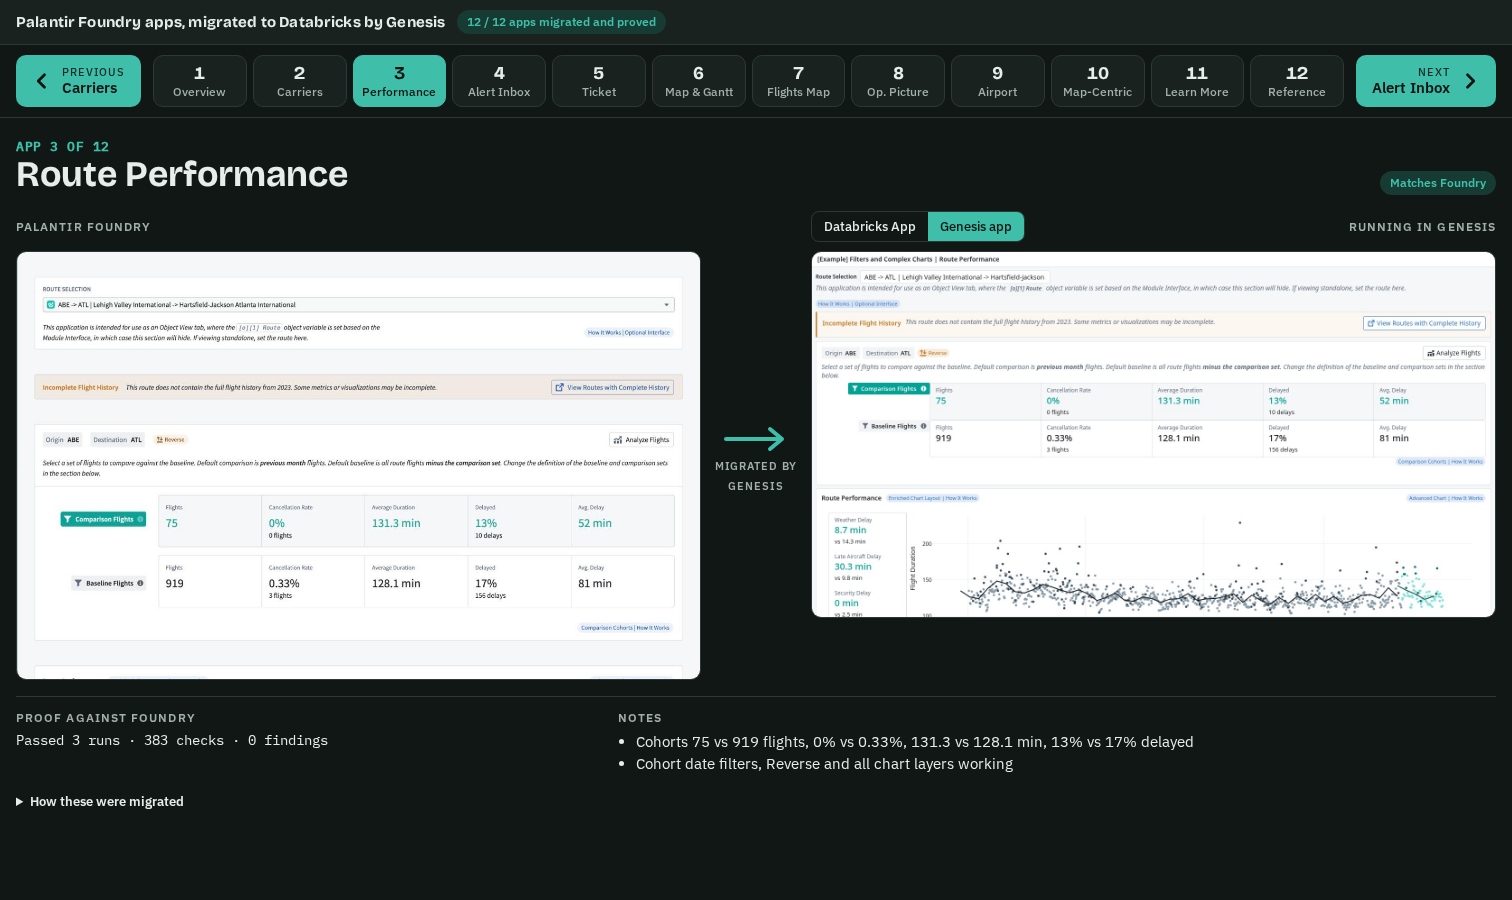
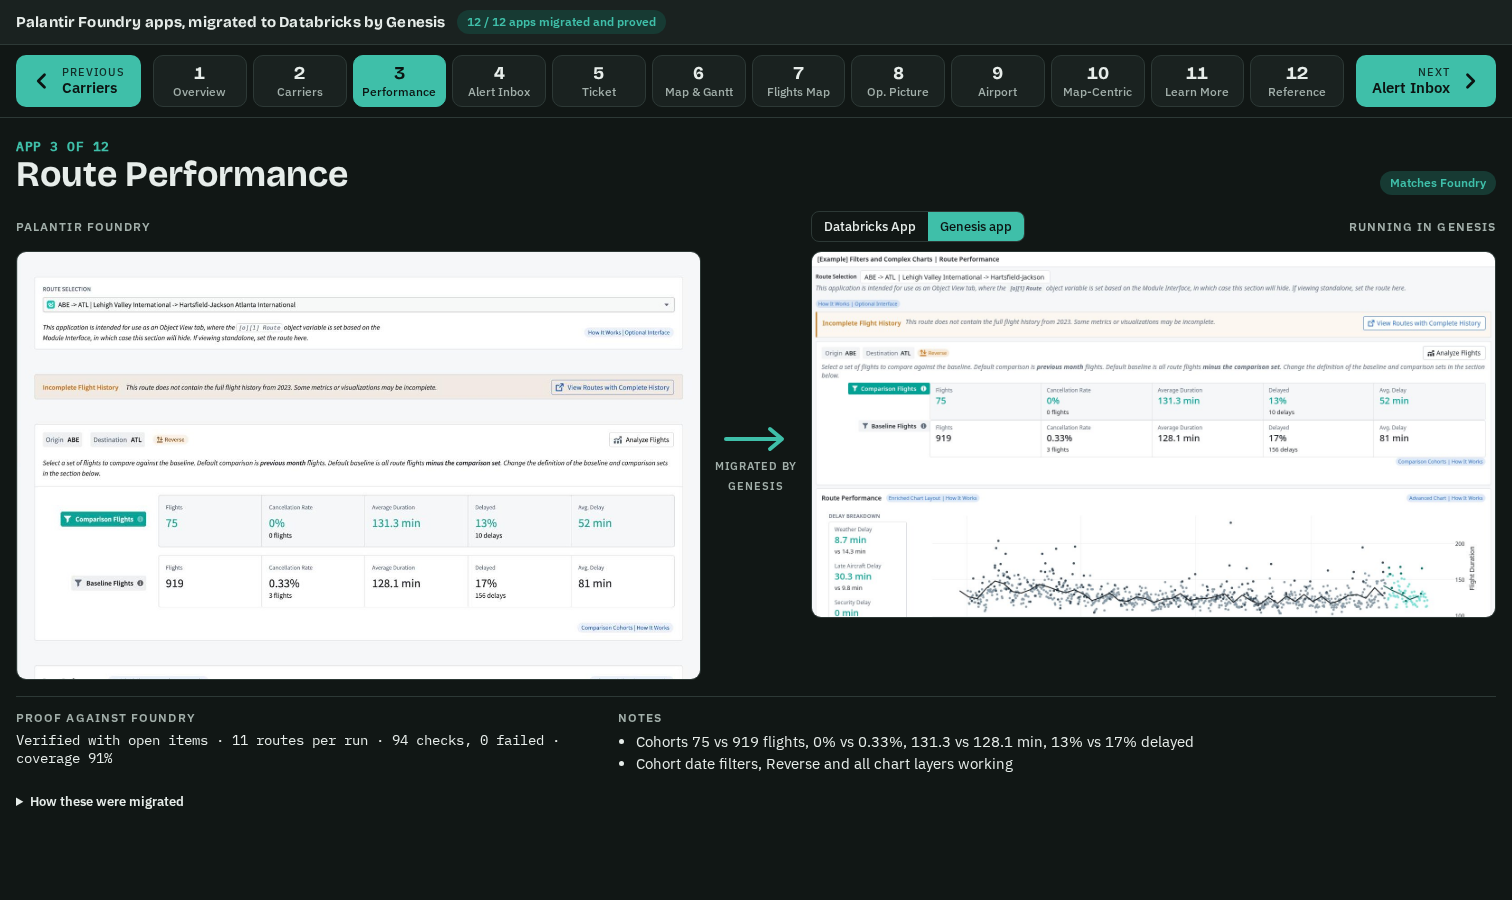
Eight apps on Eve's v9 rebuilds: new screenshots, Prover coverage results, v9 Databricks apps

diff --git a/index.html b/index.html
@@ -105,7 +105,7 @@ figure { margin: 0; display: flex; flex-direction: column; gap: 8px; min-width: 
   <div class="bar">
     <div class="left">
       <span class="brand">Palantir Foundry apps, migrated to Databricks by Genesis</span>
-      <span class="chip ok" title="Every app was rebuilt by the Genesis agent and its values proved against Foundry">12 / 12 apps migrated and proved</span>
+      <span class="chip ok" title="Every app was rebuilt by the Genesis agent and its values proved against Foundry">12 / 12 apps migrated · 0 failed checks against Foundry</span>
     </div>
   </div>
   <nav class="nav" aria-label="Apps">
@@ -118,24 +118,24 @@ figure { margin: 0; display: flex; flex-direction: column; gap: 8px; min-width: 
 <script>
 const DBX = (id) => "https://" + id + "-8259562314487447.gcp.databricksapps.com";
 const APPS = [
-  { name: "Route Overview", short: "Overview", g: "route-overview-v5", f: "f-route-overview.jpg", dbx: "route-overview-v5",
-    proof: "Passed 3 runs · 400 checks · 0 findings", notes: ["Metric rows with red/green rules, weekly flight volume and the embedded route map", "Alert detail values proven with an alert selected"] },
-  { name: "Route Carriers", short: "Carriers", g: "route-carriers-v6", f: "f-route-carriers.jpg", dbx: "route-carriers-v6",
-    proof: "Passed 3 runs · 178 checks · 0 findings", notes: ["Carrier colours, line gaps, stack order and the “No Value” bar match Foundry", "Carrier Stats is a pivot grid: Endeavor 657 / 1.80 / 125.38 / 1.03"] },
-  { name: "Route Performance", short: "Performance", g: "route-performance-v6", f: "f-route-performance.jpg", dbx: "route-performance-v6",
-    proof: "Passed 3 runs · 383 checks · 0 findings", notes: ["Cohorts 75 vs 919 flights, 0% vs 0.33%, 131.3 vs 128.1 min, 13% vs 17% delayed", "Cohort date filters, Reverse and all chart layers working"] },
-  { name: "Route Alert Inbox", short: "Alert Inbox", g: "route-alert-inbox-v5", f: "f-route-alert-inbox.jpg", dbx: "route-alert-inbox-v5",
-    proof: "Passed 3 runs · 63 checks · 0 findings", notes: ["Clickable routes, filter toggle, All / Assigned tabs and the route detail pane", "Opens on MCO → EWR, as in Foundry"] },
+  { name: "Route Overview", short: "Overview", g: "route-overview-v9", f: "f-route-overview.jpg", dbx: "genesis-route-overview-v9",
+    proof: "Verified with open items · 3 runs, 44 random routes · 94 checks, 0 failed · coverage 87%", notes: ["Metric rows with red/green rules, weekly flight volume and the embedded route map", "Alert detail values proven with an alert selected"] },
+  { name: "Route Carriers", short: "Carriers", g: "route-carriers-v9", f: "f-route-carriers.jpg", dbx: "genesis-route-carriers-v9",
+    proof: "Verified with open items · 0 failed · coverage 95% (37 of 39 widgets)", notes: ["Carrier colours, line gaps, stack order and the “No Value” bar match Foundry", "Carrier Stats is a pivot grid: Endeavor 657 / 1.80 / 125.38 / 1.03"] },
+  { name: "Route Performance", short: "Performance", g: "route-performance-v9", f: "f-route-performance.jpg", dbx: "genesis-route-performance-v9",
+    proof: "Verified with open items · 11 routes per run · 94 checks, 0 failed · coverage 91%", notes: ["Cohorts 75 vs 919 flights, 0% vs 0.33%, 131.3 vs 128.1 min, 13% vs 17% delayed", "Cohort date filters, Reverse and all chart layers working"] },
+  { name: "Route Alert Inbox", short: "Alert Inbox", g: "route-alert-inbox-v9", f: "f-route-alert-inbox.jpg", dbx: "genesis-route-alert-inbox-v9", gap: true,
+    proof: "Every check passed (0 failed) · coverage 67%, below the 80% bar: per-user list and welcome text, search filter and detail panel not yet checkable", notes: ["Clickable routes, filter toggle, All / Assigned tabs and the route detail pane", "Opens on MCO → EWR, as in Foundry"] },
   { name: "Ticket with Comments", short: "Ticket", g: "ticket-route-alert-v7", f: "f-ticket.jpg", dbx: "ticket-route-alert-v7",
     proof: "Passed · all values match · comment and callout actions pass their dry runs", notes: ["Comments write through an edits table, credited to the signed-in user", "Built straight from the tools, no hand-written queries"] },
-  { name: "Map and Gantt Charts", short: "Map & Gantt", g: "map-and-gantt-v6", f: "f-map-and-gantt.jpg", dbx: "map-and-gantt-v6",
-    proof: "Passed 3 runs · 182 checks · 0 findings", notes: ["Opens on the saved Dec 20–21 window with Foundry’s six Gantt bars", "Flight history table sorted and paged"] },
-  { name: "Flights Map", short: "Flights Map", g: "flights-map-v6", f: "f-flights-map.jpg", dbx: "flights-map-v7",
-    proof: "Passed · all values match · linked Learn More pop-up passes its own proof", notes: ["Global filter, route volume bars, volume-coloured routes and airports", "Not checked: runways layer and map-click / brush filters"] },
-  { name: "Common Operating Picture", short: "Op. Picture", g: "common-operating-picture-v6", f: "f-cop.jpg", dbx: "cop-v6",
-    proof: "Passed 3 runs · 150 checks · 0 findings", notes: ["Totals 1,659,326 / 19,488 / 1.17% / 3,605 / 0.22% match", "Carrier facet counts and cluster map match Foundry"] },
-  { name: "Embedded Module · Airport", short: "Airport", g: "embedded-airport-v8", f: "f-airport.jpg", dbx: "embedded-airport-v7",
-    proof: "Values match on 2 runs, 20 airports (28 of 28) · edits dry-run correct · coverage below 80% (proof tool gap)", notes: ["The whole embedded Flights Map drawn in place, filtered to the airport", "Bound airport shown as the pre-filled filter pill, as in Foundry"] },
+  { name: "Map and Gantt Charts", short: "Map & Gantt", g: "map-and-gantt-v9", f: "f-map-and-gantt.jpg", dbx: "genesis-map-and-gantt-v9",
+    proof: "Verified with open items · 0 failed · coverage 94% (15 of 16 widgets)", notes: ["Opens on the saved Dec 20–21 window with Foundry’s six Gantt bars", "Flight history table sorted and paged"] },
+  { name: "Flights Map", short: "Flights Map", g: "flights-map-v9", f: "f-flights-map.jpg", dbx: "genesis-flights-map-v9",
+    proof: "Verified with open items · 0 failed · coverage 86% (12 of 14 widgets)", notes: ["Global filter, route volume bars, volume-coloured routes and airports", "Not checked: runways layer and map-click / brush filters"] },
+  { name: "Common Operating Picture", short: "Op. Picture", g: "common-operating-picture-v9", f: "f-cop.jpg", dbx: "genesis-common-operating-pictu", gap: true,
+    proof: "Every check passed (21 of 21) · coverage 62%, below the 80% bar: carrier filter counts, cluster map and personal greeting not yet checkable", notes: ["Totals 1,659,326 / 19,488 / 1.17% / 3,605 / 0.22% match", "Carrier facet counts and cluster map match Foundry"] },
+  { name: "Embedded Module · Airport", short: "Airport", g: "embedded-airport-v9", f: "f-airport.jpg", dbx: "genesis-embedded-airport-v9",
+    proof: "Verified with open items · 2 fresh runs · 49 checks, 0 failed · coverage 83%", notes: ["The whole embedded Flights Map drawn in place, filtered to the airport", "Bound airport shown as the pre-filled filter pill, as in Foundry"] },
   { name: "Map-Centric Module", short: "Map-Centric", g: "map-centric-v5", f: "f-map-centric.jpg", dbx: "map-centric-v5",
     proof: "Passed on 7 inputs · 0 findings", notes: ["Airports and route lines over the full map", "Opening state (all airports, all routes) proven"] },
   { name: "Learn More Overlay", short: "Learn More", sub: "Reusable pop-up module, shown here on its own", g: "learn-more-overlay-v6", f: "f-learn-more.jpg", dbx: "learn-more-overlay-v6",
